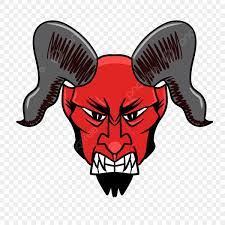
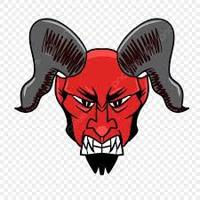
+Prisegant profilio nuotrauka ji automatiskai sumazinama

diff --git a/mysite/catalog/templates/profile.html b/mysite/catalog/templates/profile.html
@@ -5,7 +5,7 @@
 <div class="content-section">
       <img class="rounded-circle account-img" src="{{ user.profile.photo.url }}">
       <h2 class="account-heading">{{ user.username }}</h2>
-      <p class="text-secondary">{{ user.email }}</p>
+      <p class="text-secondary"><strong>El. paštas :</strong> {{ user.email }}</p>
       <p class="text-secondary"><strong>Vardas:</strong> {{ user.first_name }}</p>
       <p class="text-secondary"><strong>Pavardė:</strong> {{ user.last_name }}</p>
 
@@ -13,7 +13,7 @@
           {% csrf_token %}
           {% load crispy_forms_tags %}
           <fieldset>
-                <legend class="border-bottom mb-4">Profilio info</legend>
+                <legend class="border-bottom mb-4">Profilio informacija</legend>
                 {{ u_form | crispy }}
                 {{ p_form | crispy }}
           </fieldset>

diff --git a/mysite/catalog/models.py b/mysite/catalog/models.py
@@ -1,5 +1,6 @@
 from django.db import models
 from django.contrib.auth.models import User
+from PIL import Image
 
 class Country(models.Model):
     name = models.CharField(verbose_name="Šalis", max_length=100)
@@ -69,8 +70,16 @@ class ConditionerOrder(models.Model):
         ordering = ["-date_created"]
 
 class Profile(models.Model):
-    user = models.OneToOneField(to=User, on_delete=models.CASCADE)
-    photo = models.ImageField(verbose_name="Nuotrauka", default="profile_pics/default.png", upload_to="profile_pics")
+    user = models.OneToOneField(User, on_delete=models.CASCADE)
+    photo = models.ImageField(default="default.png", upload_to="profile_pics")
 
     def __str__(self):
         return f"{self.user.username} profilis"
+
+    def save(self, *args, **kwargs):
+        super().save(*args, **kwargs)
+        img = Image.open(self.photo.path)
+        if img.height > 200 or img.width > 200:
+            output_size = (200, 200)
+            img.thumbnail(output_size)
+            img.save(self.photo.path)
